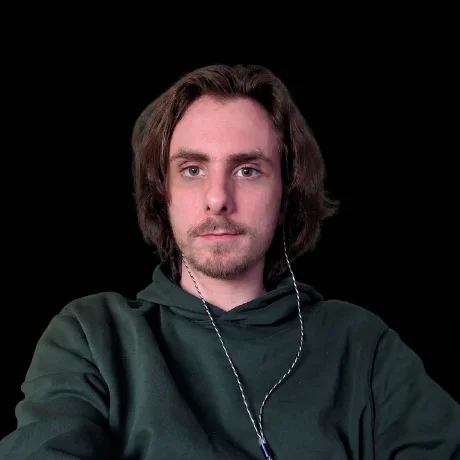
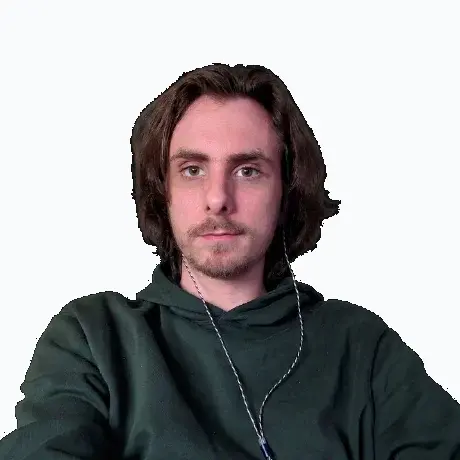
design(portrait): ground the portrait in each scheme's panel ink
The portrait's pure-black ground was palette-homeless: the heaviest object
on the white page, heavier than the headline, and nearly invisible on the
navy one. The crop now ships in two grounds — --surface-alt in light,
--panel in dark — swapped by <picture media>, the same light/dark figure
mechanic the brand plates use. Grounds were flood-filled from the uniform
srgb(1,1,1) black at 2% fuzz so hair and hoodie shadows stay untouched;
picture { display: contents } keeps the wrapper out of the hero aside and
masthead profile layouts. The pair joins DESIGN.md's re-ink surfaces list.

Assisted-by: qwen4-max

diff --git a/src/styles/app.css b/src/styles/app.css
@@ -221,6 +221,13 @@
 		scrollbar-gutter: stable;
 	}
 
+	/* The portrait's <picture> swaps grounds by scheme; it must not become a
+	   layout box, or the hero aside and the masthead profile grid would size
+	   the wrapper instead of the img. Source selection is unaffected. */
+	picture {
+		display: contents;
+	}
+
 	body {
 		background: var(--bg);
 		color: var(--text);

diff --git a/DESIGN.md b/DESIGN.md
@@ -73,7 +73,9 @@ pointed at the tokens; headings inside it are sans.
 change. These hold a copy of the values and have to be re-inked with them:
 `src/pages/og/[slug].png.ts` (the light values, hard-coded), `src/pages/site.webmanifest.ts`,
 `public/favicon.svg` and `tools/favicon/build-favicon.sh` (regenerate the
-raster set with it), `resume/metadata.yaml` (the PDF's LaTeX palette), the
+raster set with it), `public/profile.webp` and `public/profile-dark.webp` (the
+portrait's two grounds, snapped to `--surface-alt` and `--panel`; the crop is
+shared, only the ground moves, like the brand figures), `resume/metadata.yaml` (the PDF's LaTeX palette), the
 display ads in `public/img/`, the brand plates and their two figures in
 `public/img/brand/` (generated art, snapped to the token values by hand —
 there is no build step, so the dark figures are recolours of the light
